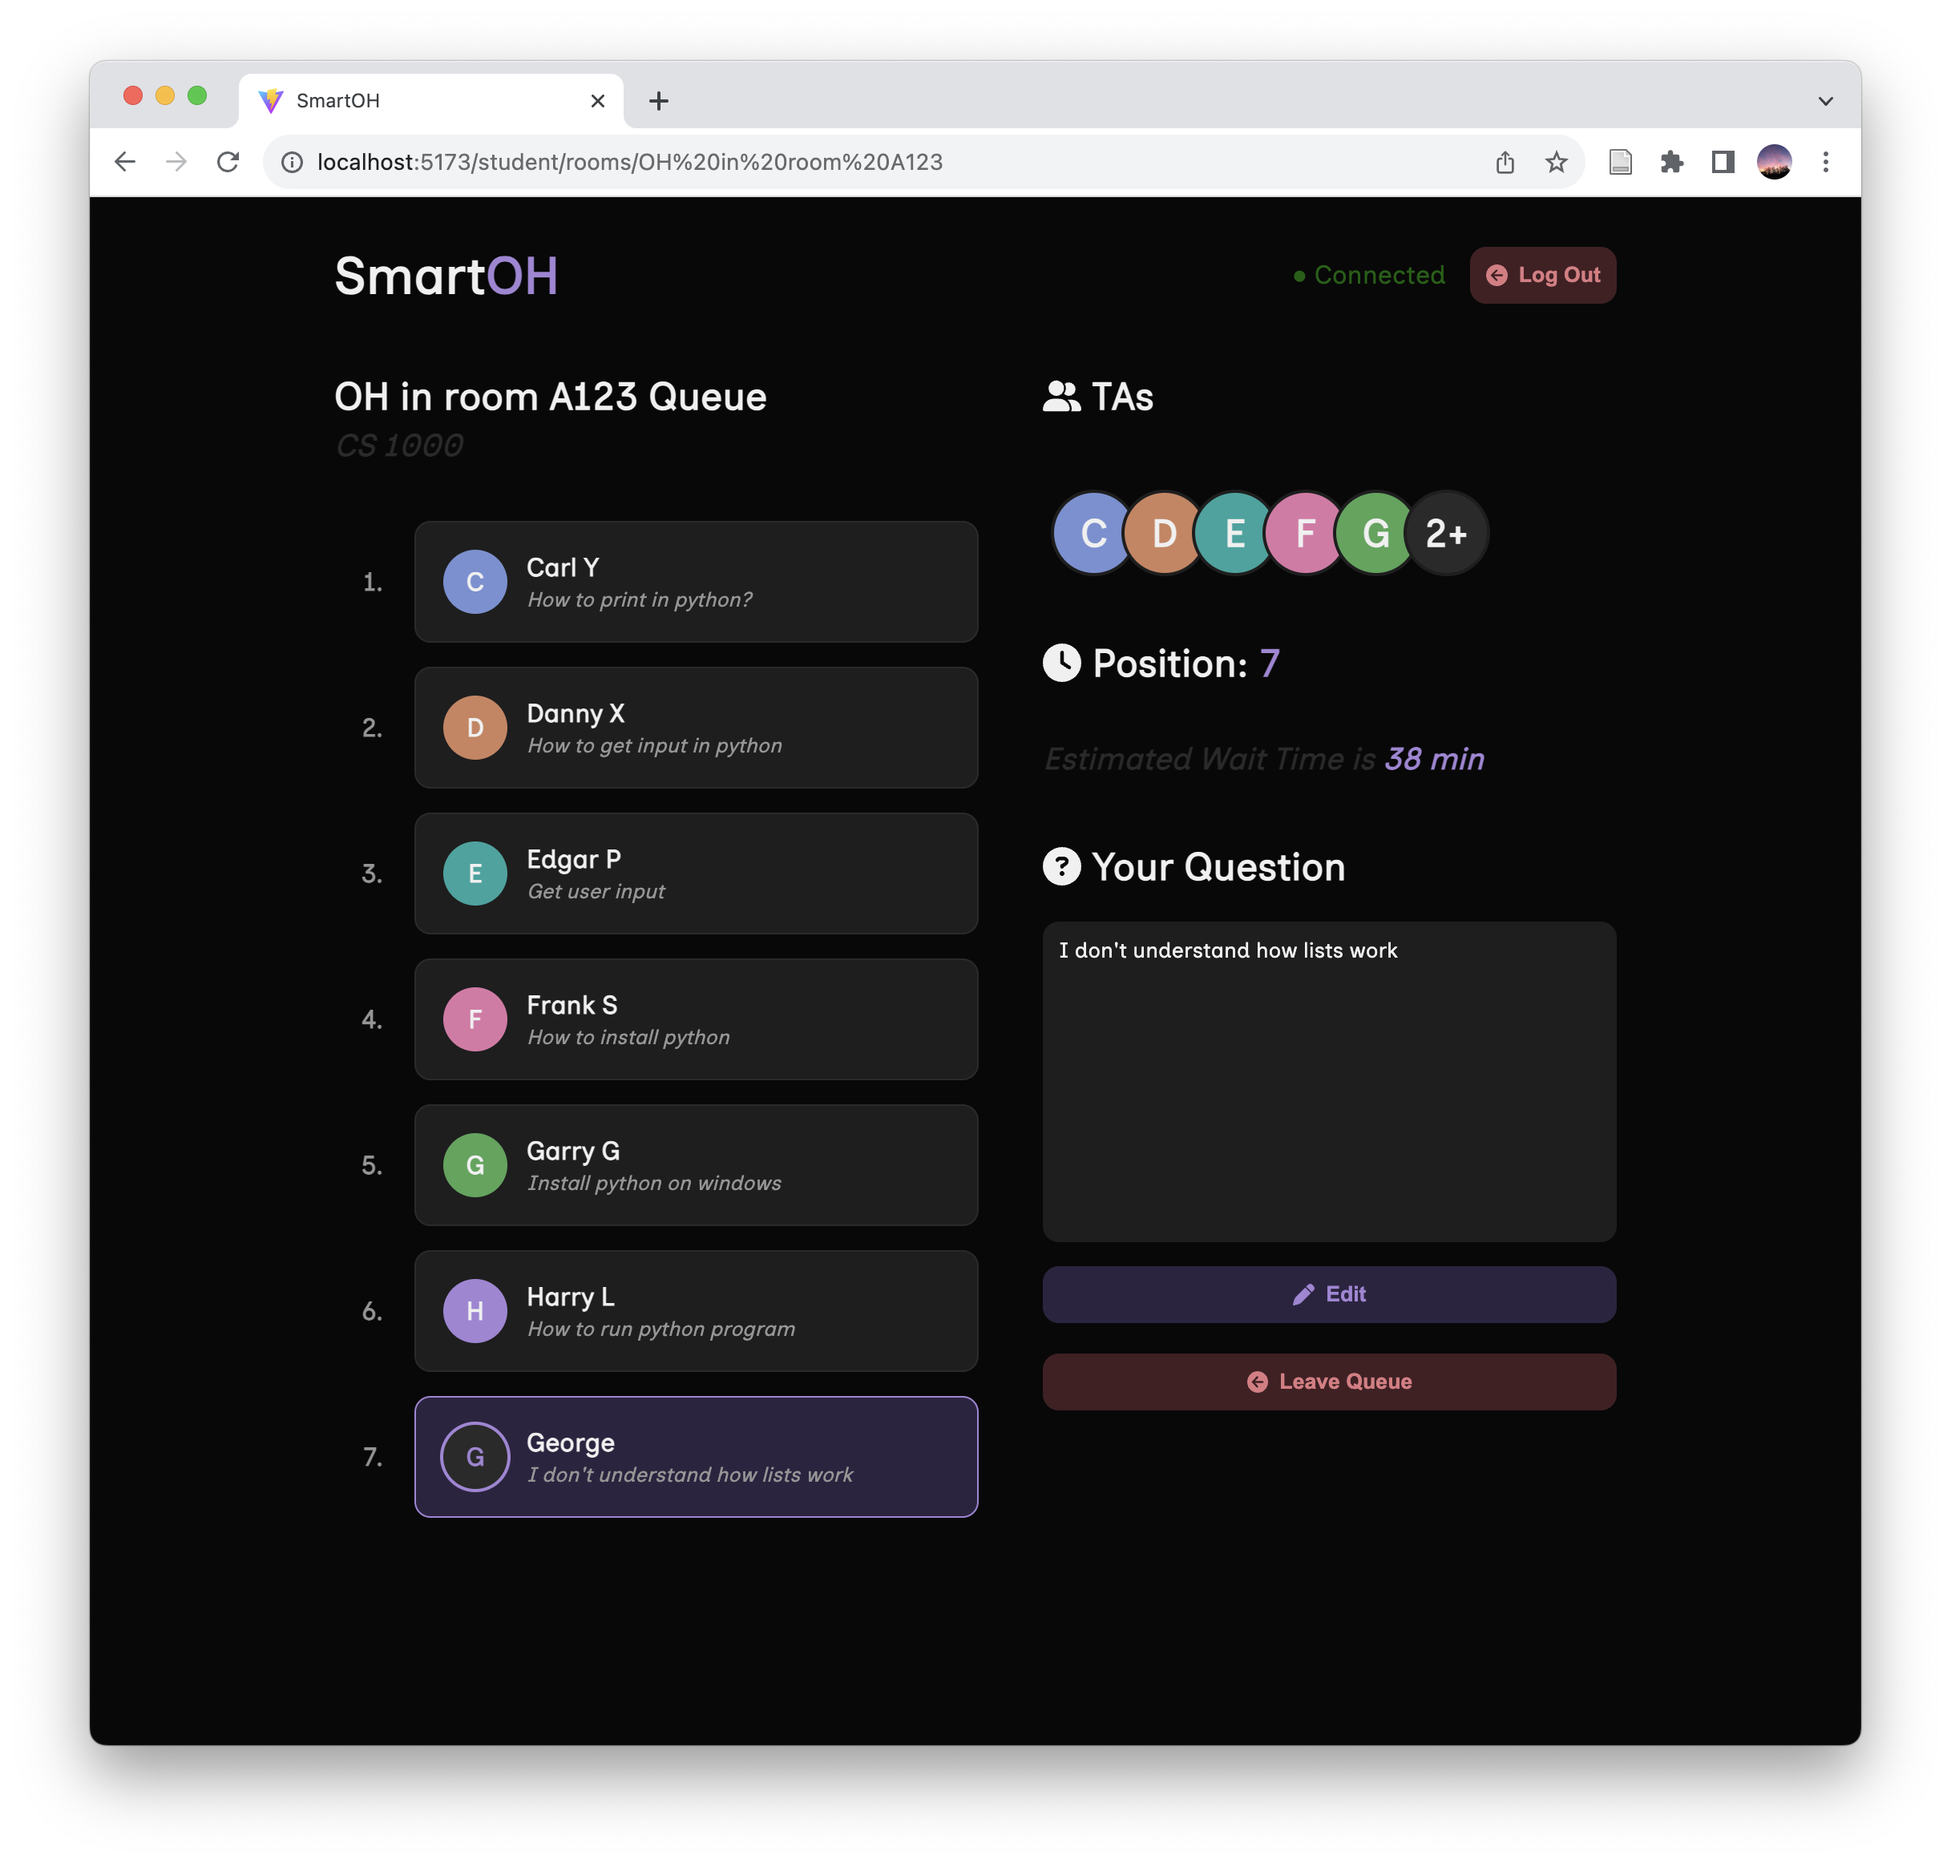
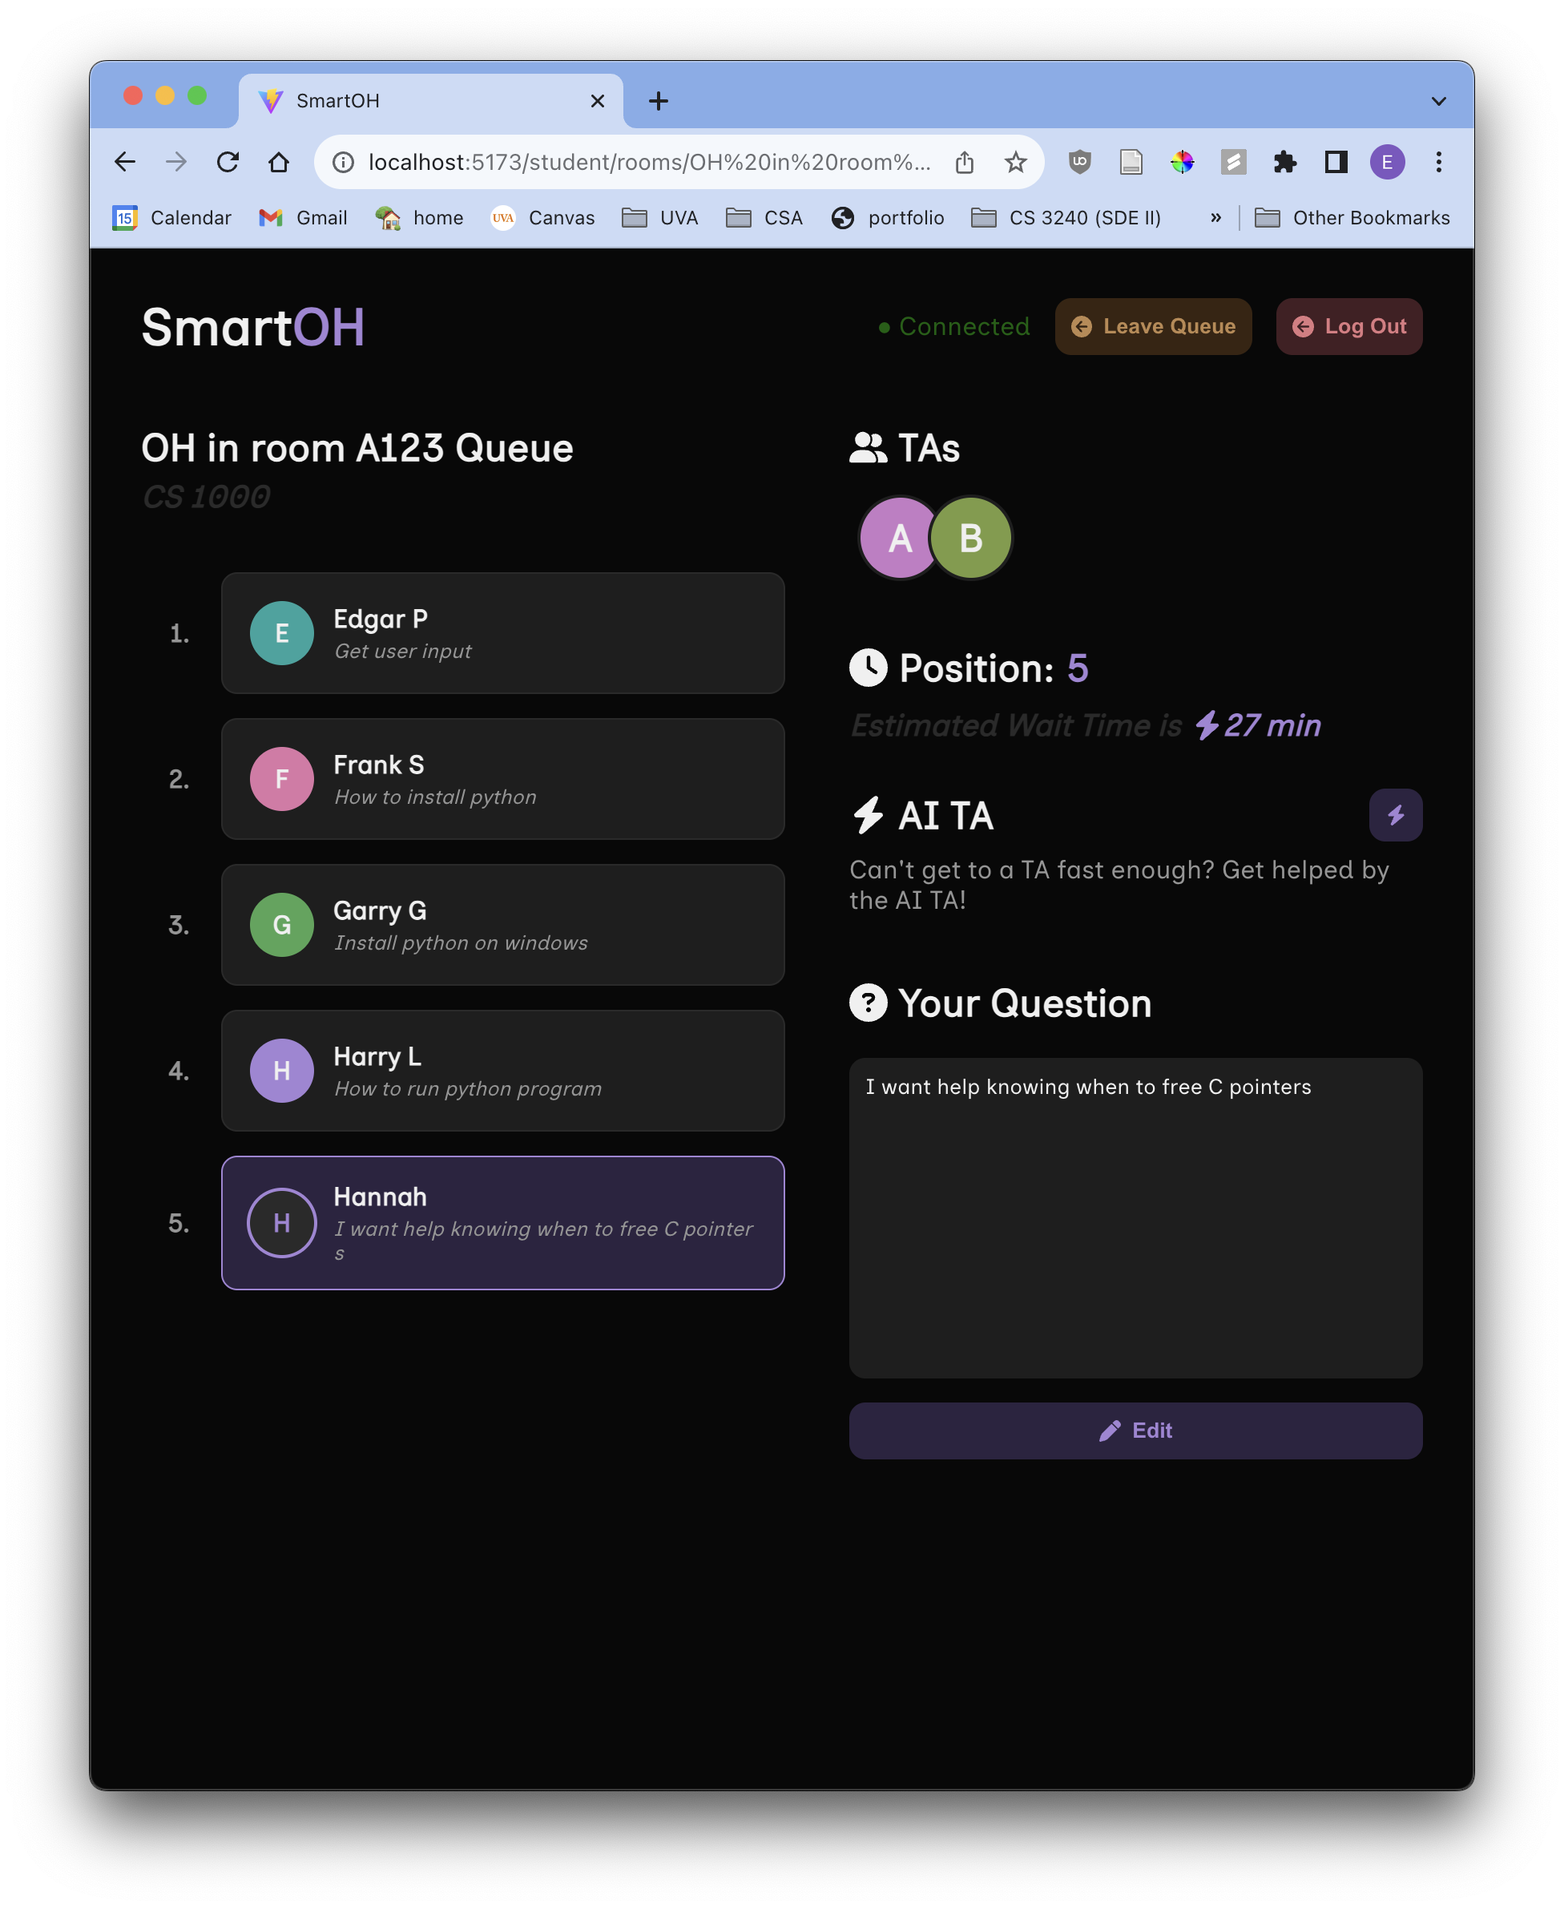
something

diff --git a/backend/index.js b/backend/index.js
@@ -154,10 +154,31 @@ const postData = {
     ]
 }
 
-app.post('/api/ml/summarize', async (req, res) => {
-    console.log("123")
+app.get('/api/ml/summarize', async (req, res) => {
+    room = rooms[req.query.roomID]
+
+    console.log("SUMMARIZING")
+    const postData = {
+        questions: []
+    }
+
+    room.queue.forEach(s => postData.questions.push(s.question))
+
     axios.post('http://localhost:8000/current-topic', postData).then(result => {
-        res.json(result.data.current_topic)
+        res.json(result.data)
+        console.log(result.data)
+    })
+})
+
+app.get('/api/ml/help', async (req, res) => {
+    console.log("HELPING")
+    const postData = {
+        question: req.query.question
+    }
+
+    axios.post('http://localhost:8000/help', postData).then(result => {
+        res.json(result.data)
+        console.log(result.data)
     })
 })
 

diff --git a/deep-learning/similarity.py b/deep-learning/similarity.py
@@ -21,6 +21,50 @@ openai.api_key = os.getenv("OPENAI_API_KEY")
 
 app = FastAPI()
 
+def get_help_question(question):
+
+    messages = [ {"role": "system", "content": 
+                "You are a teaching assistant for the course."} ]
+
+    prompts = [
+        f"A student is asking you for help with the following question: {question}. What are 3 steps one can take to effectively help the student and explain the concepts to them without immediately giving away the answer?",
+        "Provie 3 sentences that would help the student most following the steps."
+    ]
+    for i in range(2):
+        message = prompts[i]
+
+        if message:
+            messages.append(
+                {"role": "user", "content": message},
+            )
+            chat = openai.ChatCompletion.create(
+                model="gpt-3.5-turbo", messages=messages
+            )
+        reply = chat.choices[0].message.content
+        print(f"ChatGPT: {reply}")
+        if i == 1:
+            return reply
+        messages.append({"role": "assistant", "content": reply})
+
+    return reply
+
+
+class HelpInput(BaseModel):
+    question: str
+
+@app.post("/help")
+def calculate_similarity(data: HelpInput):
+    
+    question = data.question
+
+    if not question:
+        raise HTTPException(status_code=400, detail="Missing question")
+
+    try:
+        reply = get_help_question(question)
+        return {"reply": reply}
+    except Exception as e:
+        raise HTTPException(status_code=500, detail=str(e))
 
 def calc_similarity_function(target_string: str, string_list: list[str]):
     # Compute embeddings for both lists

diff --git a/README.md b/README.md
@@ -14,11 +14,30 @@
 ### Our Data Workflow
 ![workflow](images/flowchart.png)
 
+![login](images/login.png)
+Login Splash. A tab is used to select if you are a TA or a student!
 ### Functionality for Students
 ![join](images/class_student.png)
+The student landing page shows live previews of the status of each Office Hour room, along with AI-powered predictions for wait times.
+
+![join_filter](images/join_filters.png)
+Students can also easily filter their office hours by class!
+
 ![question](images/question.png)
+To join the Queue, a student must enter their question.
+
 ![queue](images/queue_student.png)
+A student can view relevant data while waiting in the queue, such as their position, wait time, and who the TAs and other students are.
+
+
+![AIhelp](images/ai_help_1.png)
+If a TA isn't available, ask the AI TA for help!
+
+![AIhelp](images/ai_help_2.png)
+The AI TA isn't a full substitute for a real TA, but it can definitely make a TA's life easier by explaining basic concepts.
 
 ### Functionality for TAs
 ![class](images/class_ta.png)
-![room](images/room_ta.png)
+The TA landing page is similar, except that TAs do not join the Queue nor need to ask questions.
+
+<!-- ![room](images/room_ta.png) -->
